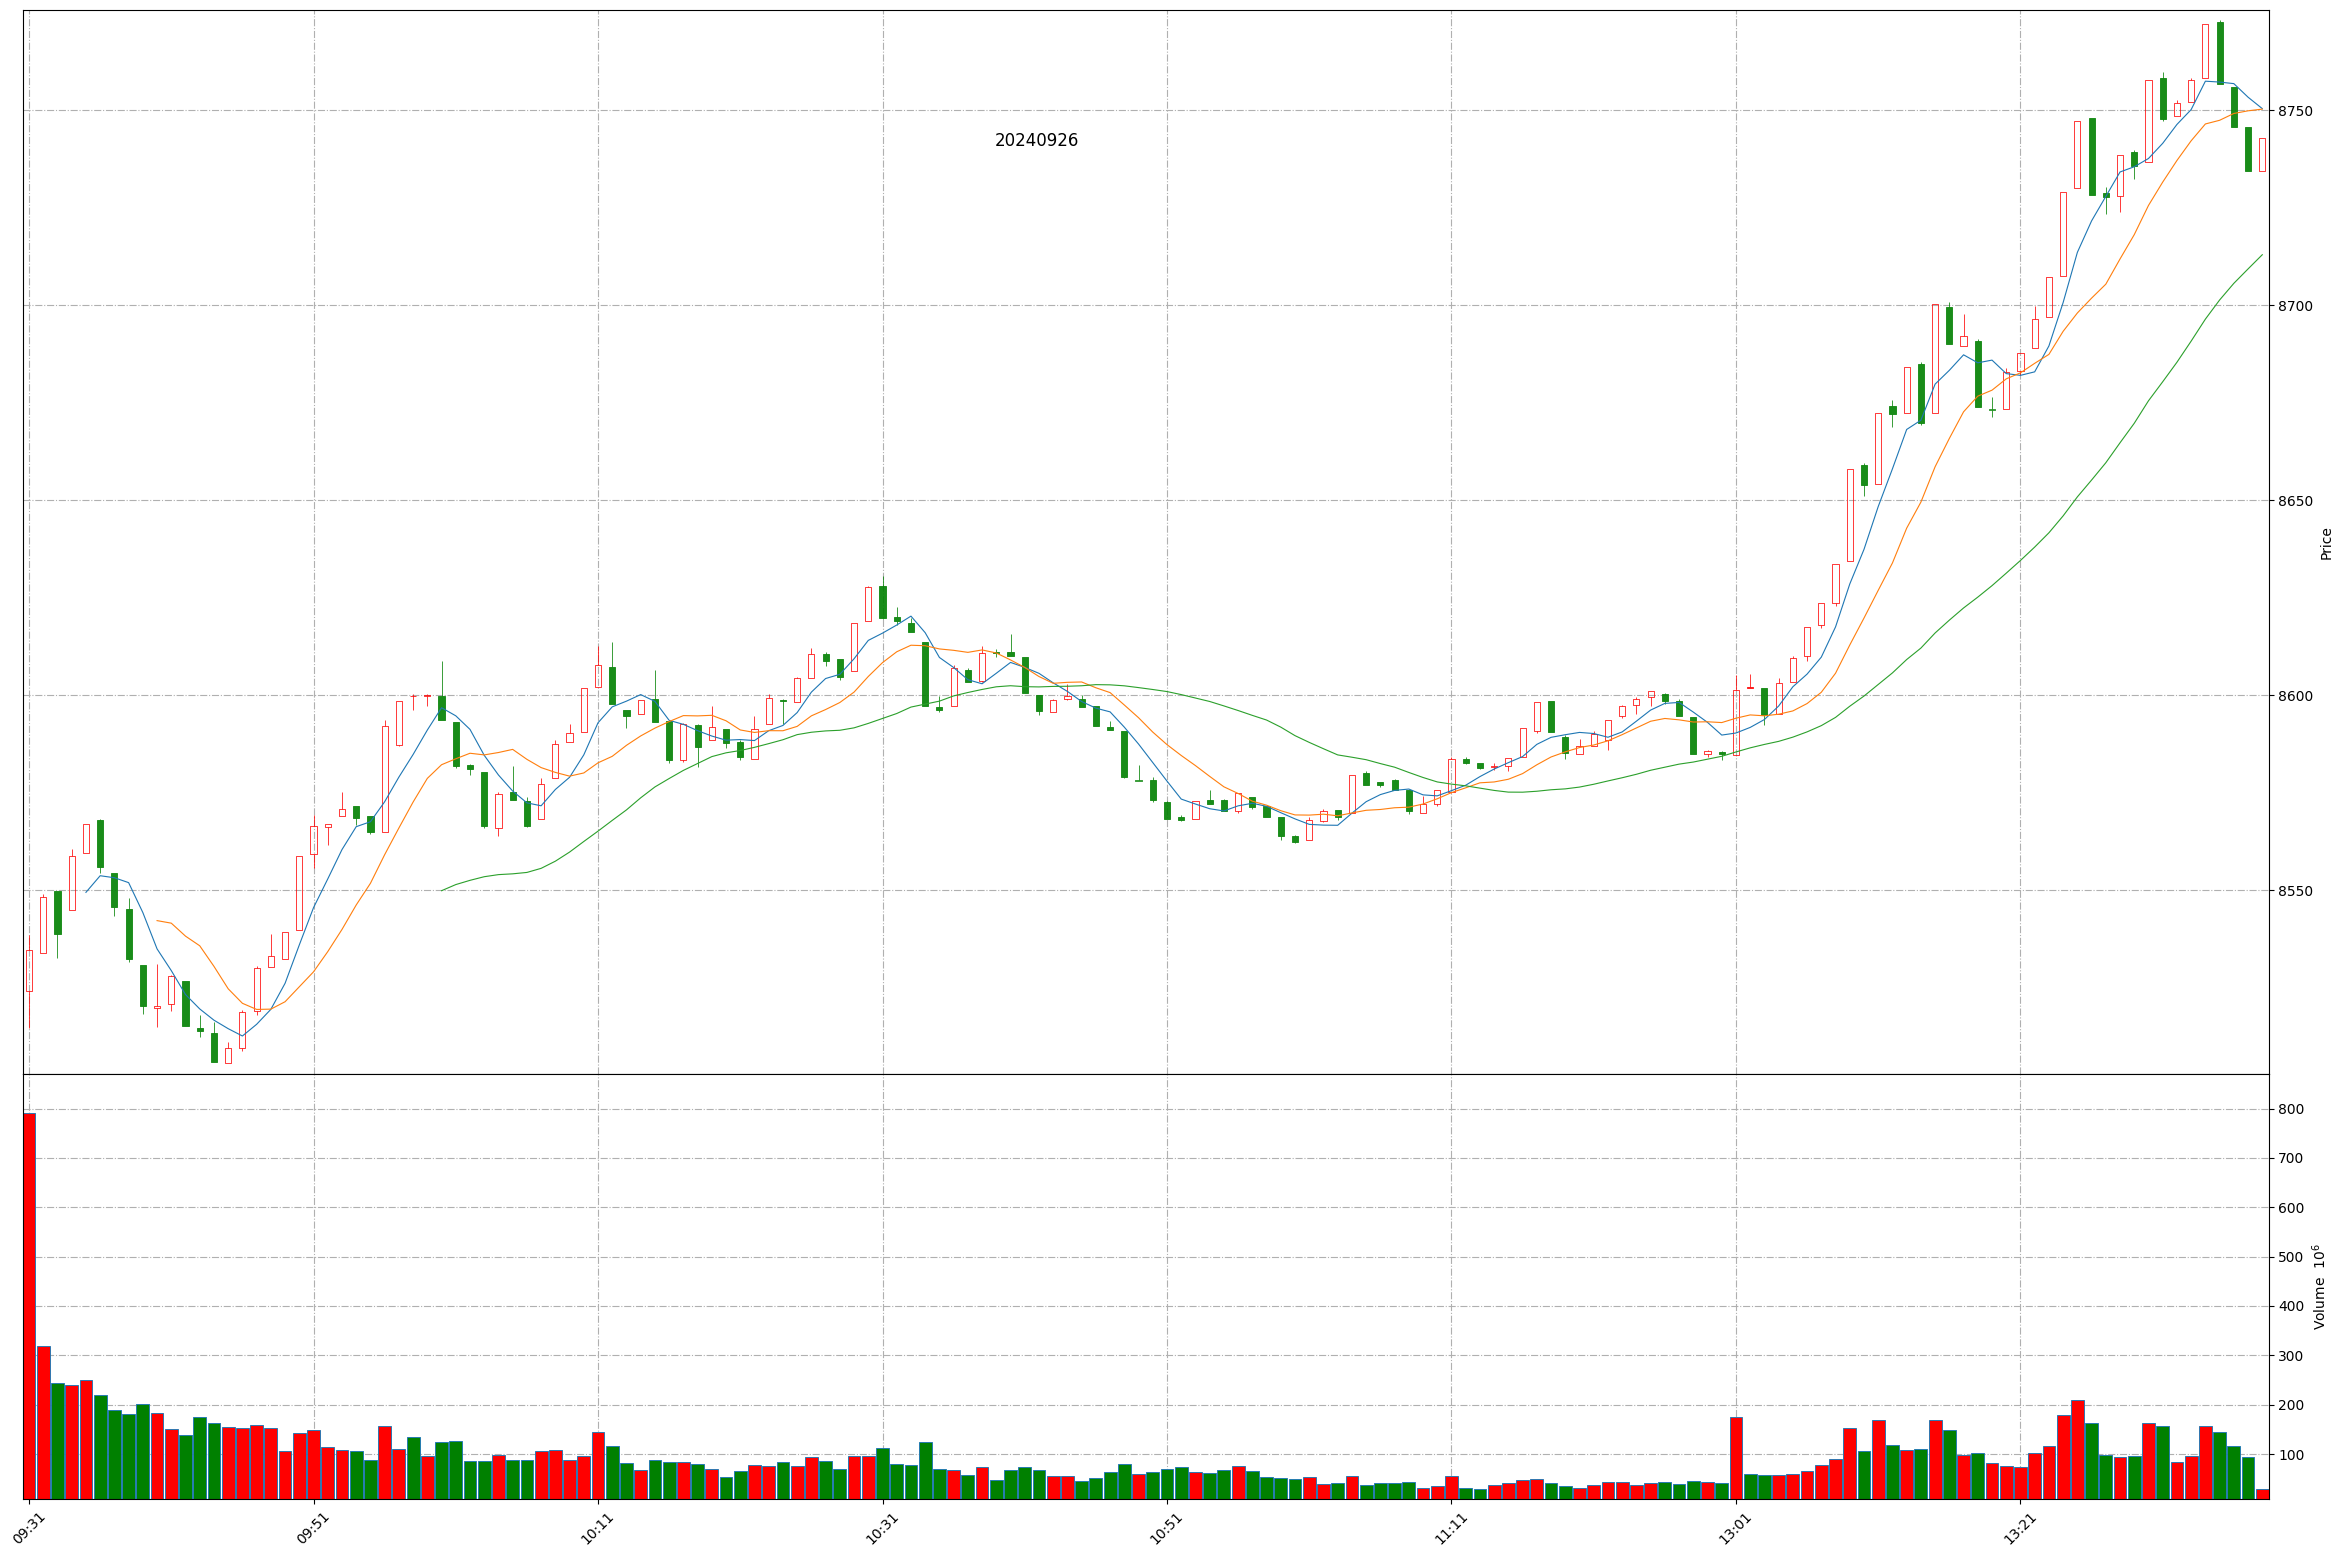
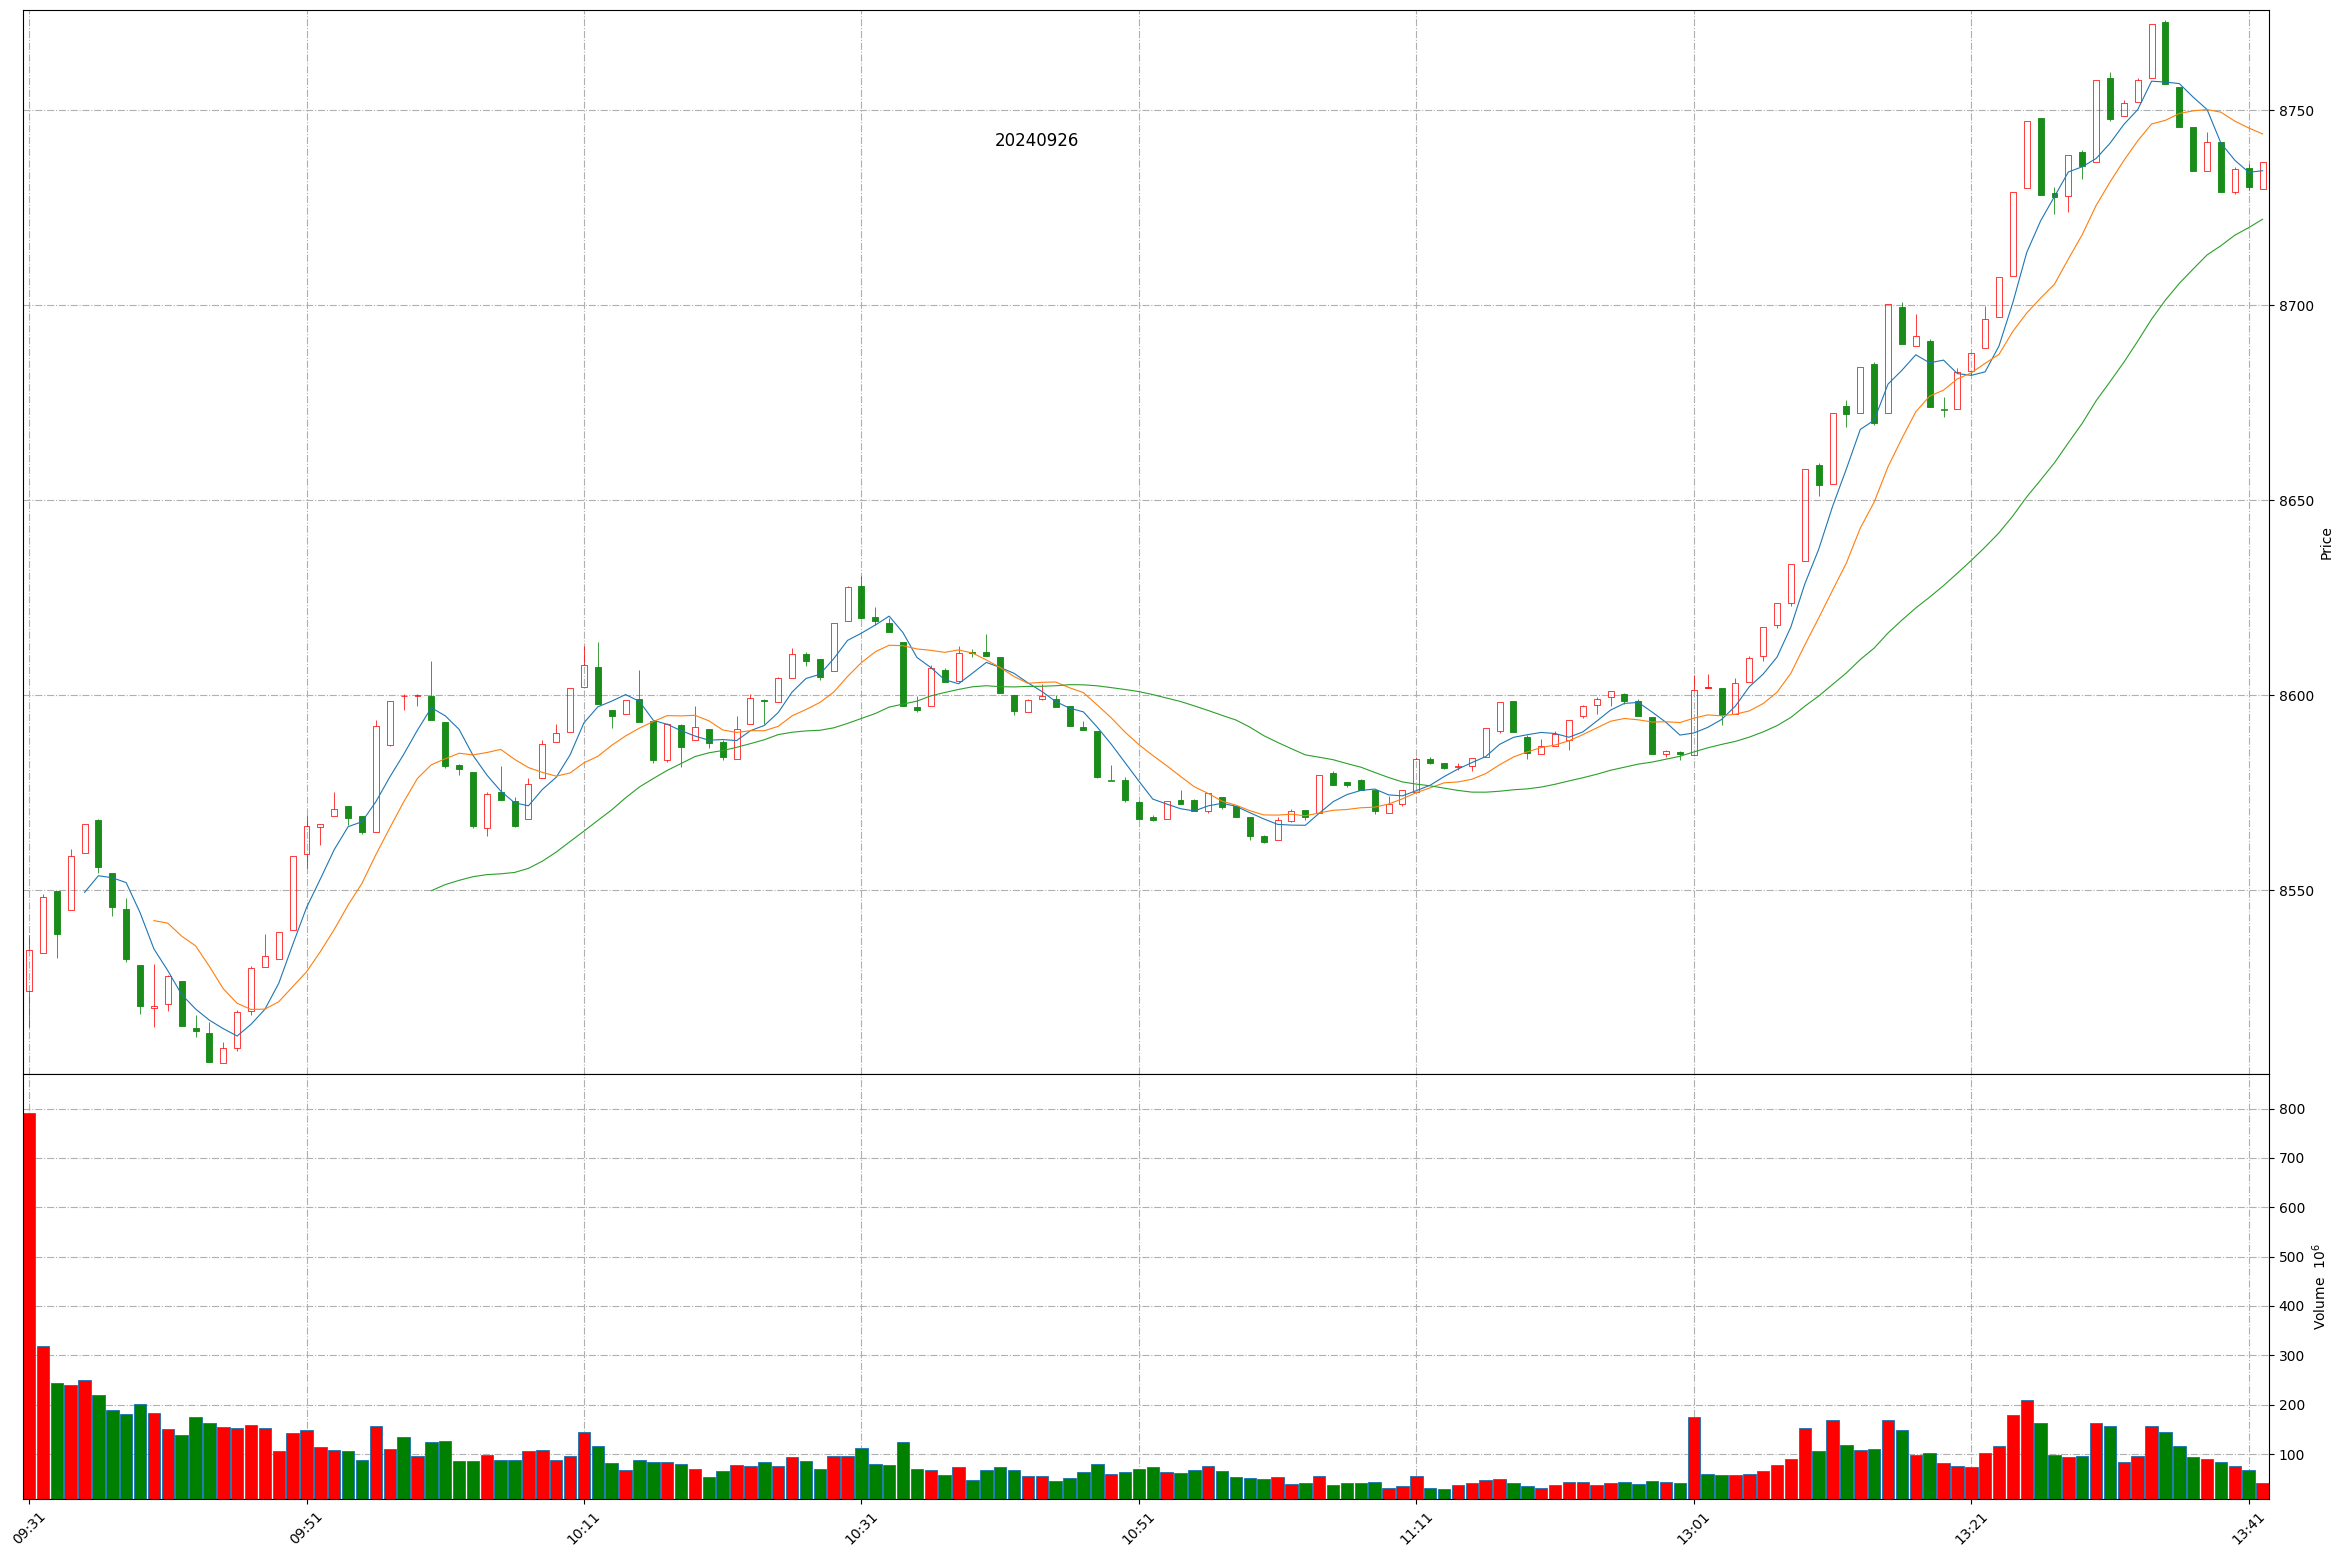
Github action update at 2024-09-26 13:41:49.

diff --git a/README.md b/README.md
@@ -1,11 +1,11 @@
 
 # Daily-A-share-market-quotes 每日 A 股指数（5min 更新）- 20240926
 
-### 上证指数 20240926 13:37
+### 上证指数 20240926 13:41
 ![](./fig/2024/9/20240926-sh000001.png)
 
-### 深证成指 20240926 13:37
+### 深证成指 20240926 13:41
 ![](./fig/2024/9/20240926-sz399001.png)
 
-### 北证50 20240926 13:37
+### 北证50 20240926 13:41
 ![](./fig/2024/9/20240926-bj899050.png)
